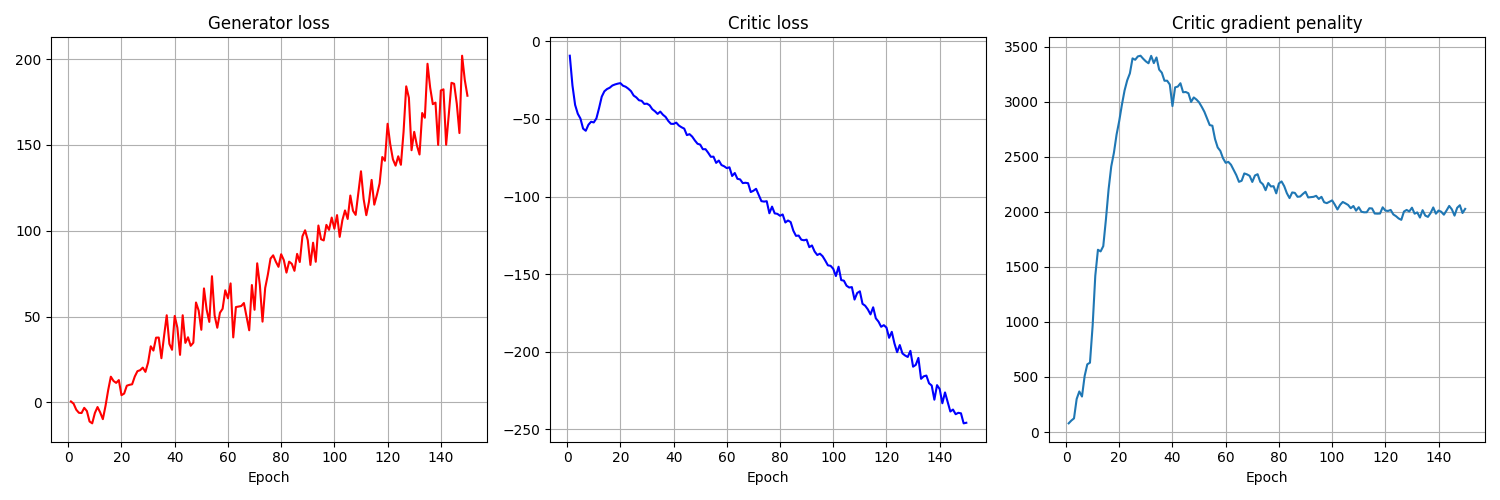
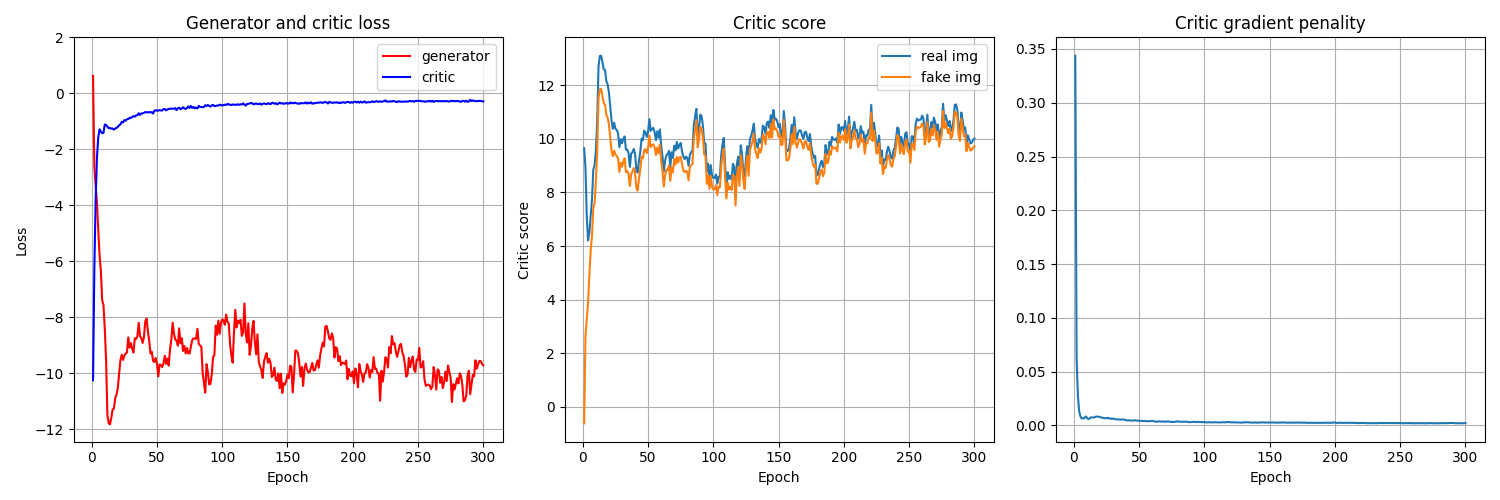
update plots

diff --git a/plotting scripts/PlotLoss_GradientPenality.py b/plotting scripts/PlotLoss_GradientPenality.py
@@ -9,13 +9,18 @@ def main():
     df = load_dataframe(log_dir)
 
     fig, axes = plt.subplots(1, 3, figsize=(15,5))
-    
-    sns.lineplot(data=df.loc[:, ["generator loss"]], ax=axes[0], legend=None, palette=['red'])
-    axes[0].set_title("Generator loss")
 
+    df2 = df.rename(columns={'generator loss':'generator', "critic default loss": "critic"})
+    plot = sns.lineplot(data=df2.loc[:, ["generator", "critic"]], ax=axes[0], dashes=False, palette=["red", "blue"])
+    axes[0].set_title("Generator and critic loss")
+    axes[0].set_ylabel("Loss")
+    axes[0].legend(loc="upper right")
+    plot.set(ylim=(None, 2))
 
-    sns.lineplot(data=df.loc[:, ["critic default loss"]], ax=axes[1], legend=None, palette=['blue'])
-    axes[1].set_title("Critic loss")
+    df2 = df.rename(columns={'critic score img real':'real img', "critic score img fake": "fake img"})
+    sns.lineplot(data=df2.loc[:, ["real img", "fake img"]], ax=axes[1], dashes=False)
+    axes[1].set_title("Critic score")
+    axes[1].set_ylabel("Critic score")
     
     sns.lineplot(data=df.loc[:, ["critic gradient penality"]], ax=axes[2], legend=None, palette=['tab:blue'])
     axes[2].set_title("Critic gradient penality")

diff --git a/plotting scripts/GeneratedImgsWhileTraining.py b/plotting scripts/GeneratedImgsWhileTraining.py
@@ -7,9 +7,9 @@ def main():
 
     df = load_dataframe(log_dir)
 
-    fig, axes = plt.subplots(nrows=15, ncols=10, figsize=(7, 10))
+    fig, axes = plt.subplots(nrows=30, ncols=10, figsize=(7, 20))
 
-    for row_idx, epoch in enumerate(range(0, 150, 10)):
+    for row_idx, epoch in enumerate(range(0, 300, 10)):
         imgs = df.loc[epoch, "generated imgs"]
         for col_idx in range(10):
             img = imgs[col_idx]

diff --git a/plotting scripts/GenerateImgs.py b/plotting scripts/GenerateImgs.py
@@ -22,7 +22,7 @@ def main():
     gan.critic.summary()
     gan.generator.summary()
 
-    gan.load_weights(f"../saved_models/trained_weights_150").expect_partial()
+    gan.load_weights(f"../saved_models/trained_weights_300").expect_partial()
 
     noise = tf.random.normal(shape=(100, gan.generator.noise_dim))
 
